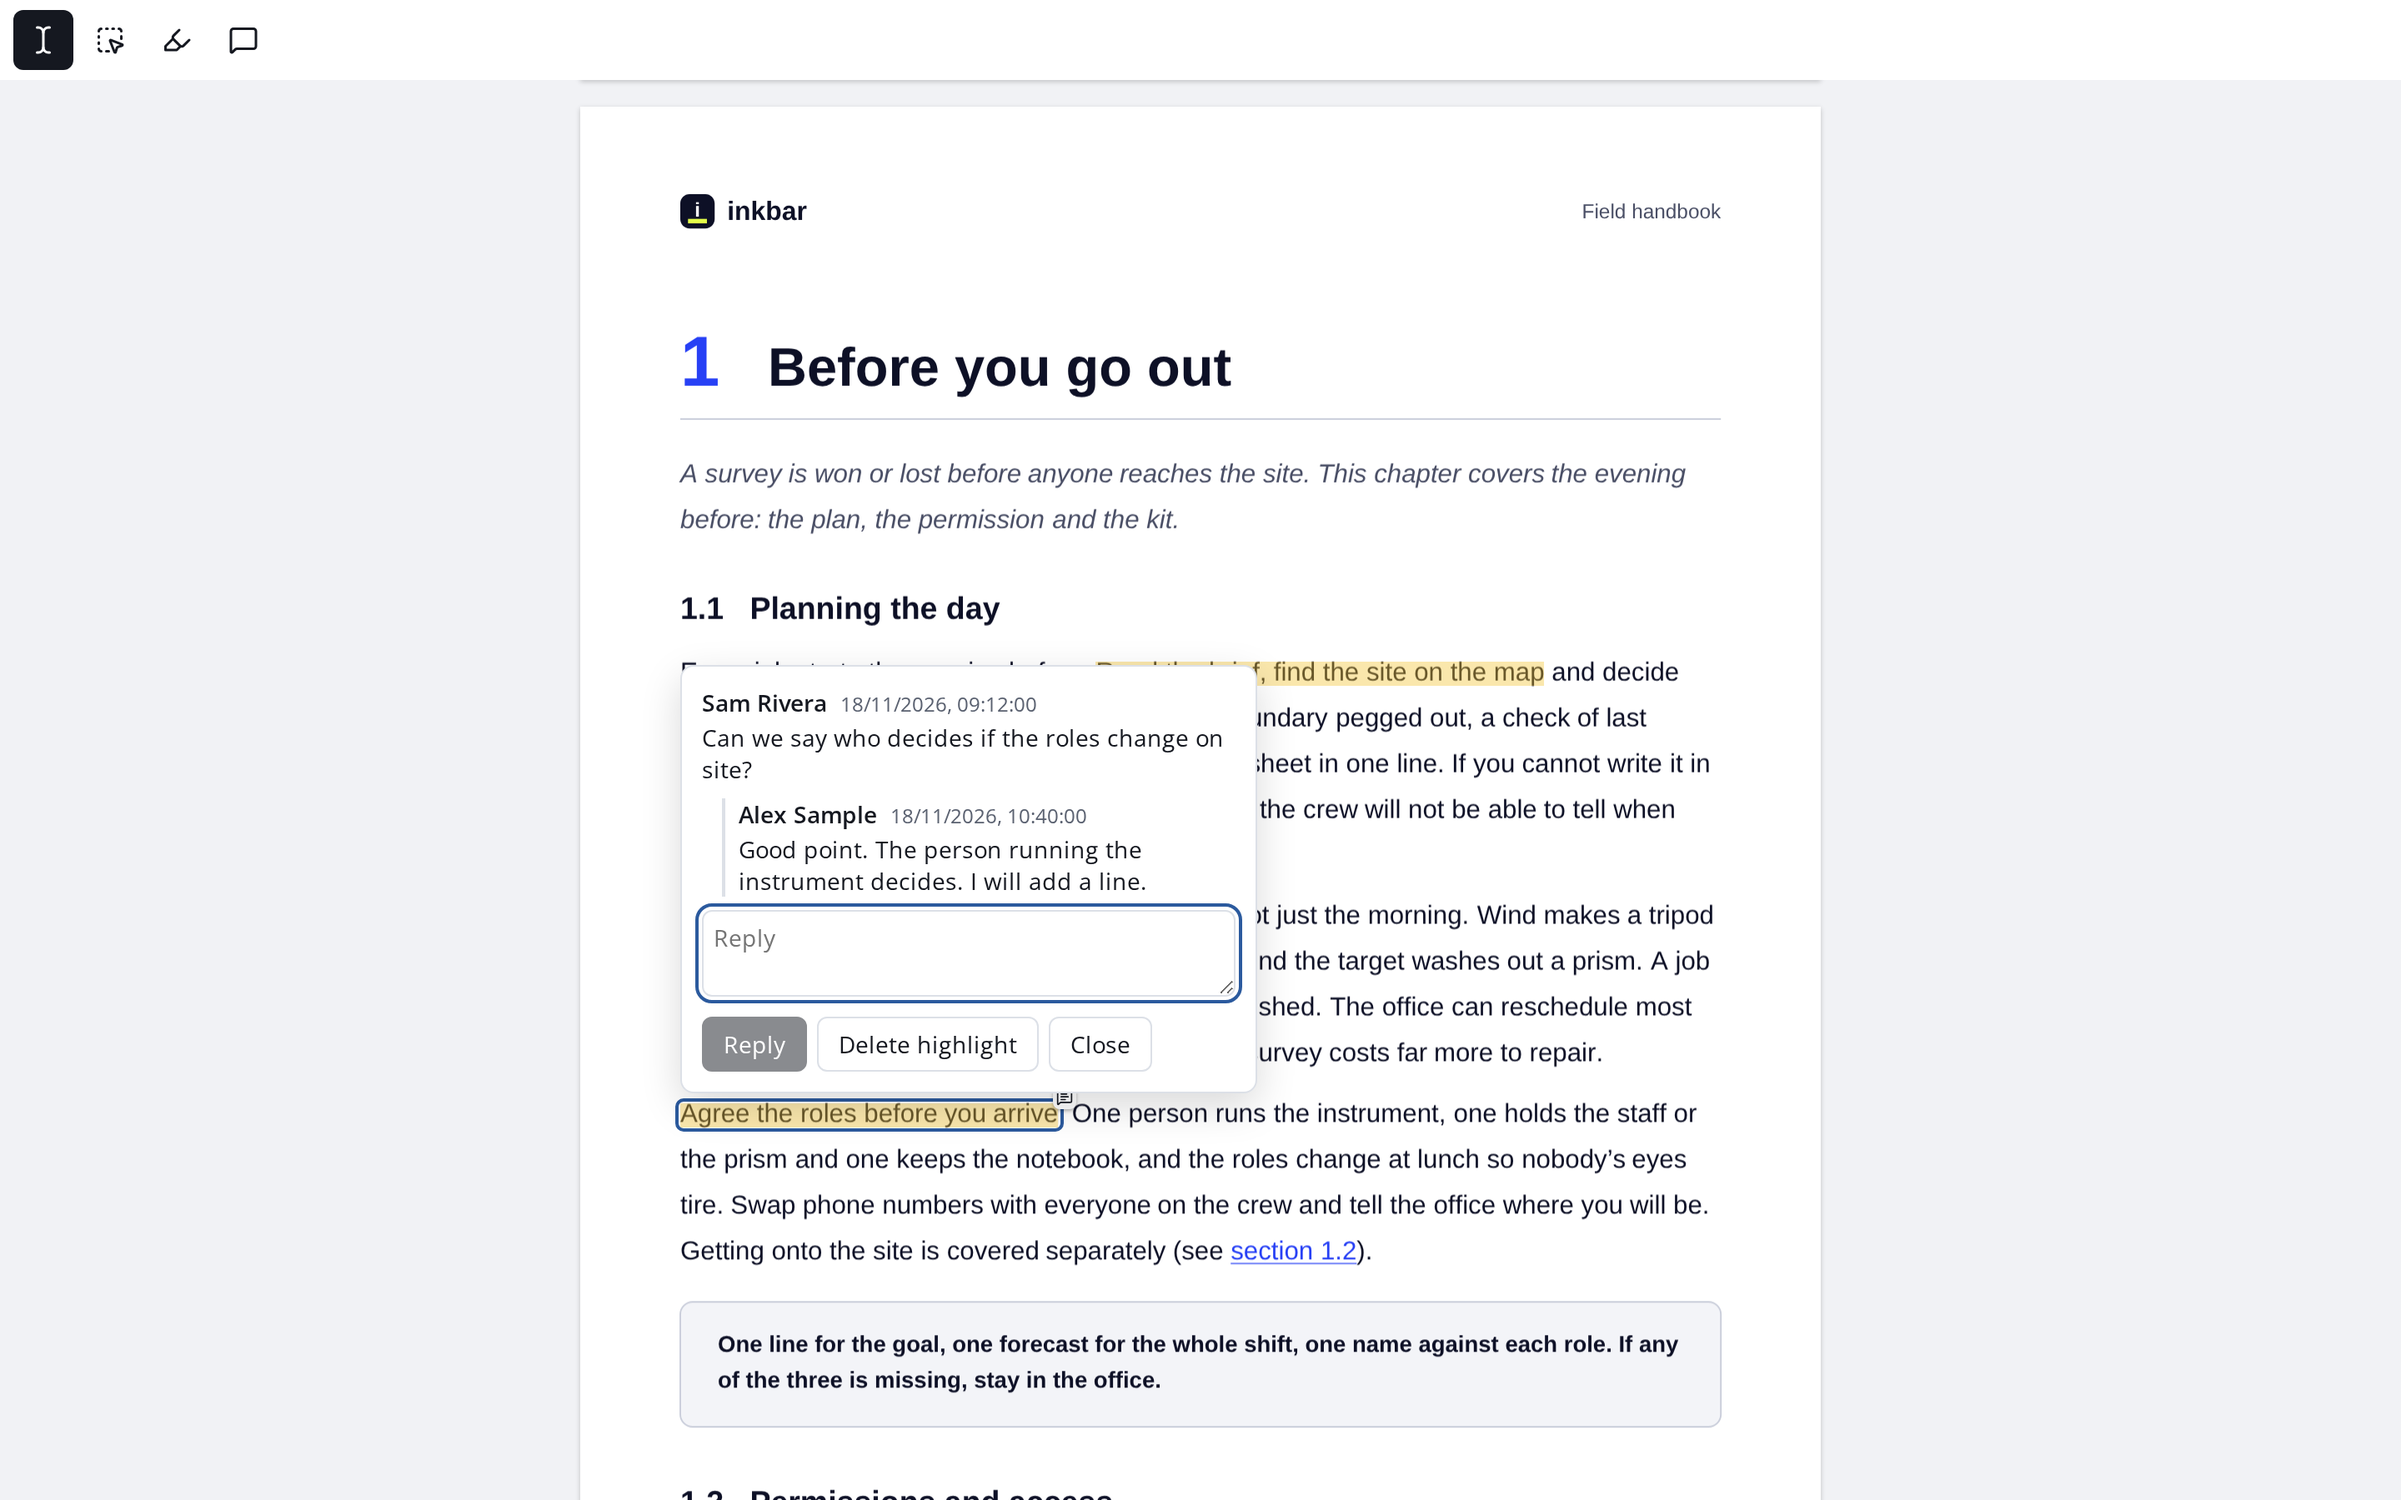
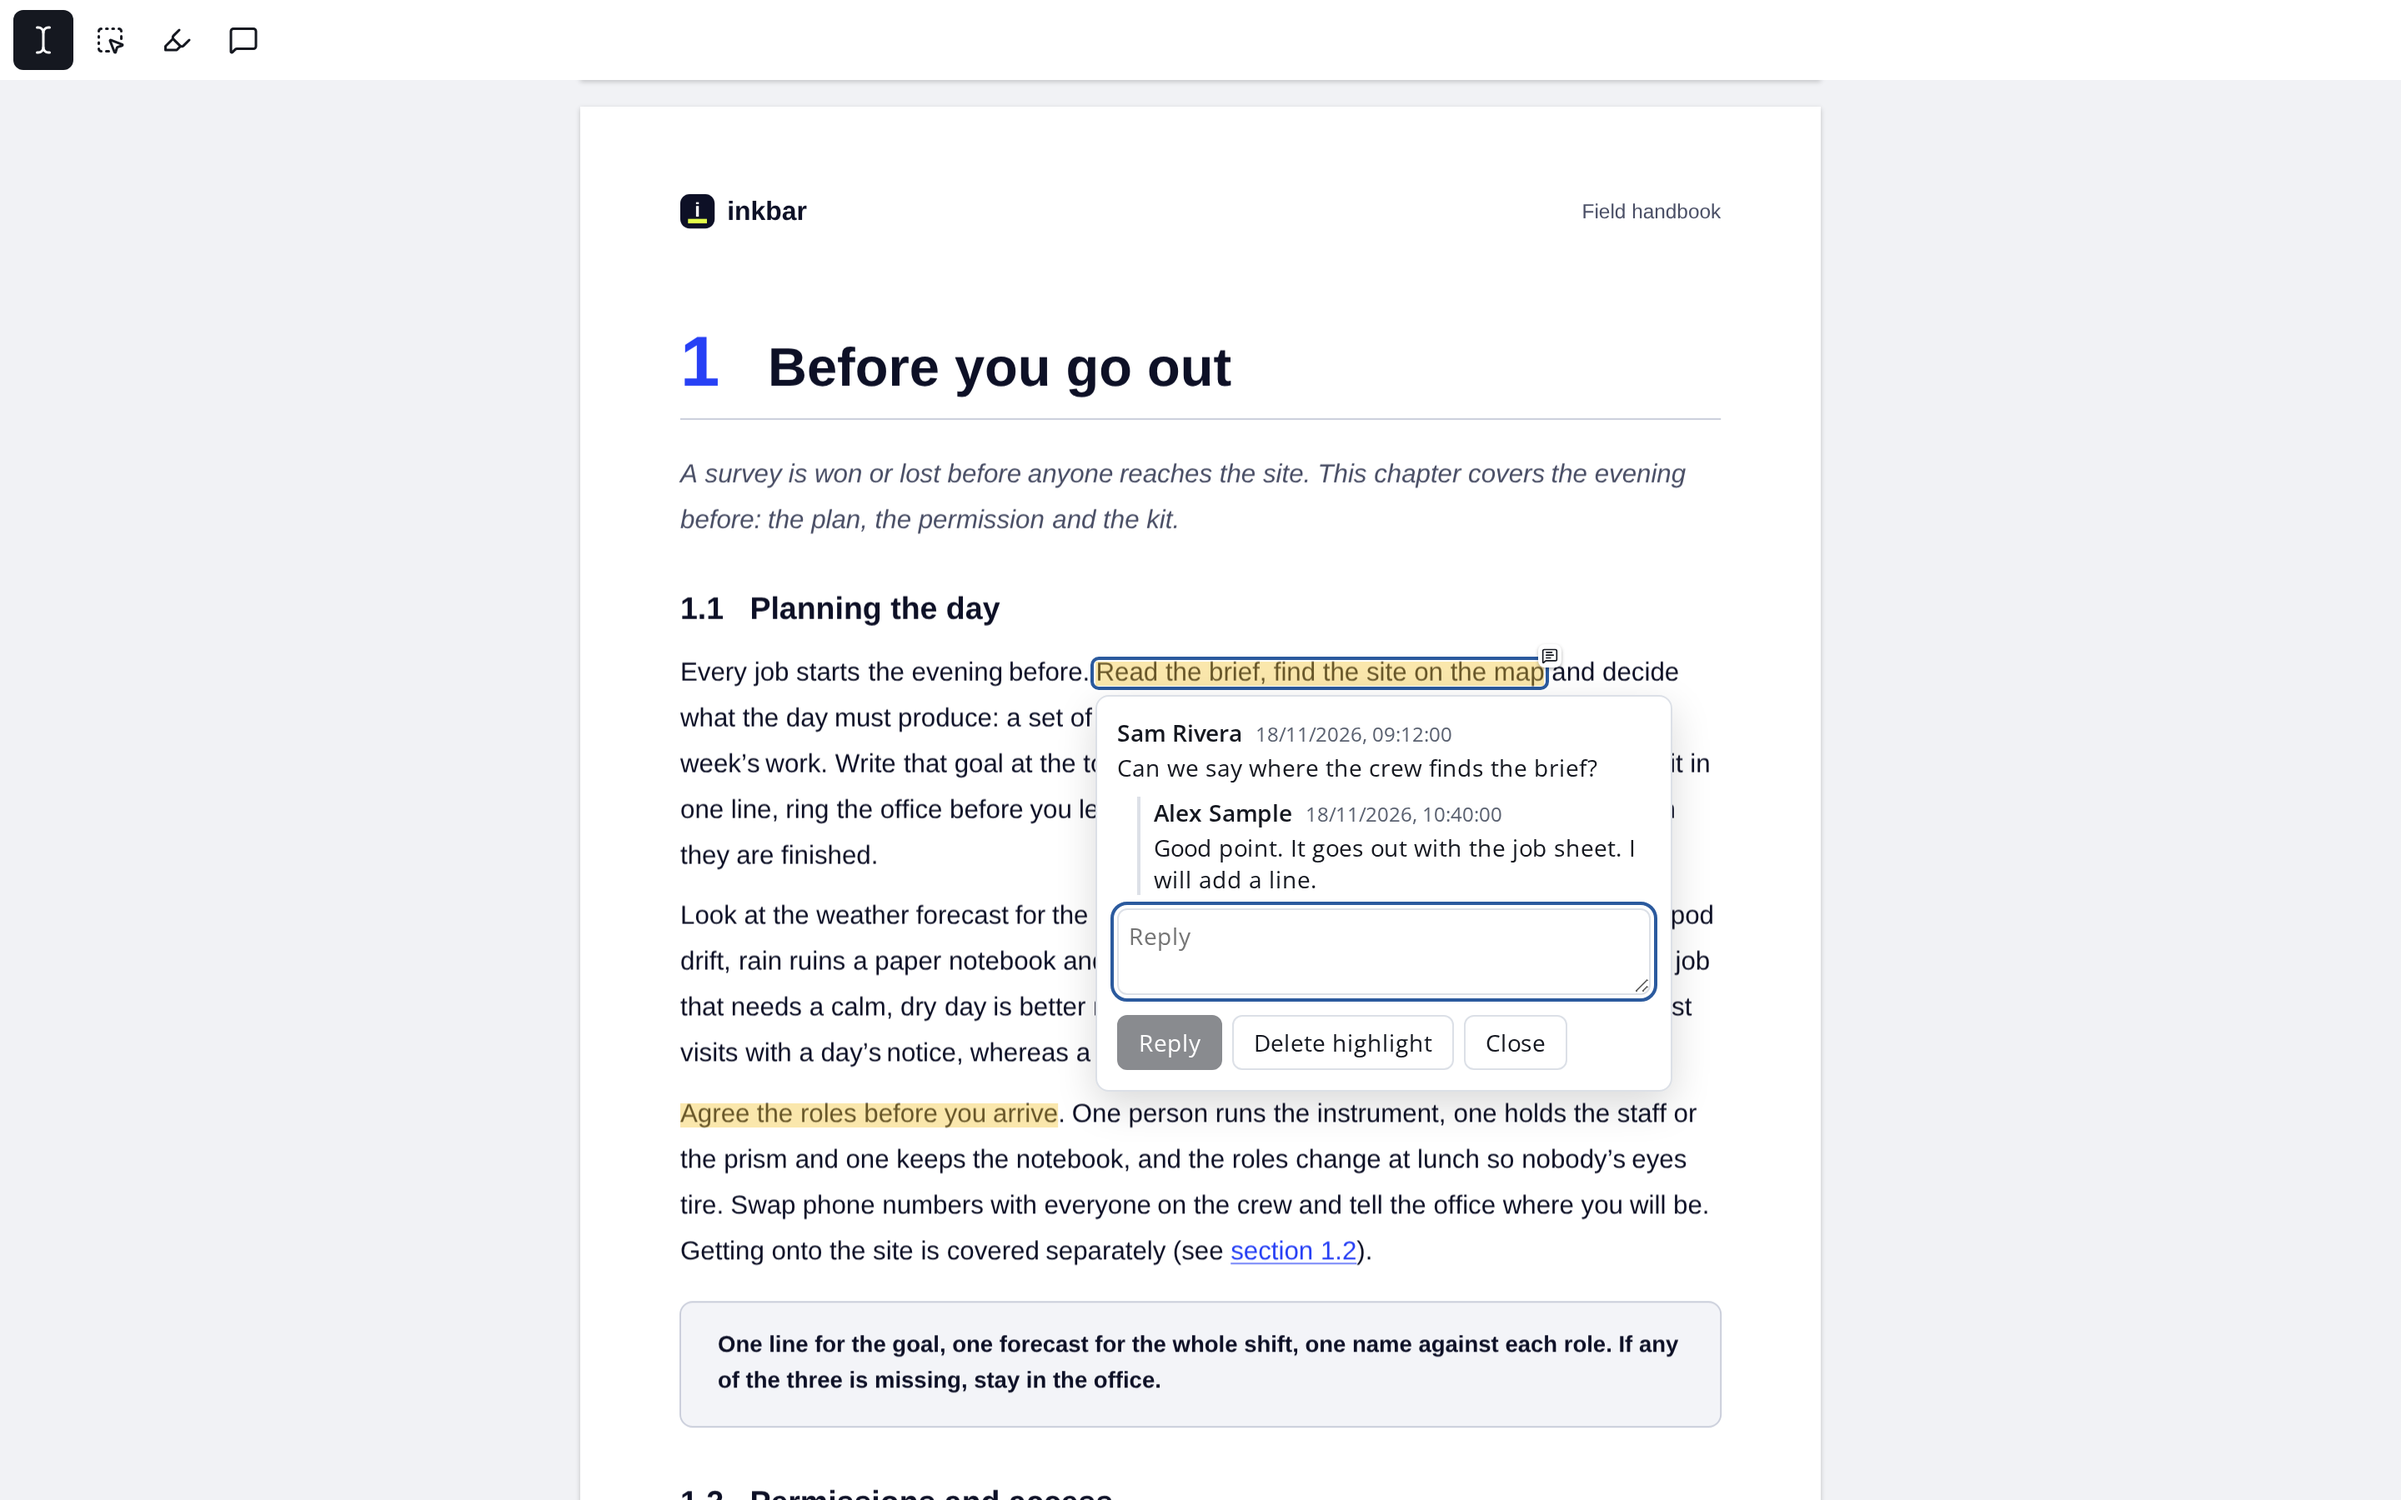
fix: tidy the use-case screenshots, titles and redaction limits (#78)

Changed region(s): [[0.2812, 0.4356, 0.6875, 0.7467]]

diff --git a/scripts/screenshots/setups.ts b/scripts/screenshots/setups.ts
@@ -44,21 +44,36 @@ export const setups: Record<Shot['slug'], (page: Page) => Promise<void>> = {
     await dialog.getByRole('button', { name: 'Save' }).click()
     await dialog.waitFor({ state: 'hidden' })
 
+    // Scroll the sign-off to the middle of the frame, then click halfway between it and the
+    // printed name, a name's width in from the left so the signature sits over the name.
     const viewer = page.locator('#viewer')
-    await page.mouse.move(720, 500)
-    await page.mouse.wheel(0, 420)
+    const frame = page.viewportSize()!
+    const before = await viewer.getByText('Yours sincerely,').boundingBox()
+    if (!before) throw new Error('The letter has no sign-off')
+    await page.mouse.move(frame.width / 2, frame.height / 2)
+    await page.mouse.wheel(0, before.y - frame.height / 2)
     await page.waitForTimeout(400)
     const signOff = await viewer.getByText('Yours sincerely,').boundingBox()
     const name = await viewer.getByText('Priya Shah').boundingBox()
     if (!signOff || !name) throw new Error('The letter has no sign-off')
     const sign = page.getByRole('button', { name: 'Sign', exact: true })
     if ((await sign.getAttribute('aria-pressed')) !== 'true') await sign.click()
-    await page.mouse.click(name.x + 90, (signOff.y + signOff.height + name.y) / 2)
-    await page.locator('#viewer .ink-annotation').first().waitFor()
+    await page.mouse.click(name.x + name.width, (signOff.y + signOff.height + name.y) / 2)
+    // The signature lands centred on the click. Drag it so its left edge lines up with the
+    // printed name, as a person would straighten it.
+    const placed = page.locator('#viewer .ink-annotation').first()
+    const box = await placed.boundingBox()
+    if (!box) throw new Error('The signature was not placed')
+    const centre = { x: box.x + box.width / 2, y: box.y + box.height / 2 }
+    await page.mouse.move(centre.x, centre.y)
+    await page.mouse.down()
+    await page.mouse.move(centre.x + name.x - box.x, centre.y, { steps: 8 })
+    await page.mouse.up()
   },
   'review-pdfs': async (page) => {
-    // Two highlights from search hits, one carrying a comment and then a reply from someone
-    // else, as a host would load them from its own store. The clock is set before each, so the
+    // Two highlights from search hits, the first carrying a comment and then a reply from
+    // someone else, as a host would load them from its own store. The thread opens by the
+    // first, clear of the second. The clock is set before each, so the
     // thread shows the same times on every run. Then open that thread as a reviewer would.
     await page.clock.setFixedTime(new Date('2026-11-18T09:12:00Z'))
     const commented = await page.evaluate(async () => {
@@ -67,15 +82,15 @@ export const setups: Record<Shot['slug'], (page: Page) => Promise<void>> = {
       const [second] = await doc.search('Agree the roles before you arrive').all()
       if (!first || !second) throw new Error('The handbook text moved')
       window.viewer.viewport.get()?.scrollToPage(first.page)
-      doc.annotations.add({ type: 'highlight', page: first.page, quads: first.quads })
+      doc.annotations.add({ type: 'highlight', page: second.page, quads: second.quads })
       const comment = doc.annotations.add({
         type: 'highlight',
-        page: second.page,
-        quads: second.quads,
+        page: first.page,
+        quads: first.quads,
         author: 'Sam Rivera',
-        contents: 'Can we say who decides if the roles change on site?',
+        contents: 'Can we say where the crew finds the brief?',
       })
-      return { id: comment.id, page: second.page, rect: second.rect }
+      return { id: comment.id, page: first.page, rect: first.rect }
     })
     await page.clock.setFixedTime(new Date('2026-11-18T10:40:00Z'))
     await page.evaluate((comment) => {
@@ -85,15 +100,14 @@ export const setups: Record<Shot['slug'], (page: Page) => Promise<void>> = {
         rect: comment.rect,
         inReplyTo: comment.id,
         author: 'Alex Sample',
-        contents:
-          'Good point. The person running the instrument decides. I will add a line.',
+        contents: 'Good point. It goes out with the job sheet. I will add a line.',
       })
     }, commented)
     await page.waitForTimeout(400)
     await page
       .getByRole('button', { name: 'Highlight with comment by Sam Rivera' })
       .click()
-    await page.getByText('The person running the instrument decides.').waitFor()
+    await page.getByText('It goes out with the job sheet.').waitFor()
   },
 }
 

diff --git a/scripts/screenshots/capture.ts b/scripts/screenshots/capture.ts
@@ -1,7 +1,6 @@
 // The page each screenshot is taken of: a viewer from the released packages, with only the
 // tools its shot needs, on that shot's sample document. run.ts drives it from here.
 /// <reference types="@inkbar/core/vite/client" />
-import { placeSignature } from '@inkbar/core'
 import {
   createApplyRedactionsButton,
   createSignatureMenu,
@@ -23,7 +22,6 @@ import { shots, type ToolName } from './shots.ts'
 declare global {
   interface Window {
     viewer: Viewer
-    placeSignature: typeof placeSignature
   }
 }
 
@@ -57,4 +55,3 @@ if (shot.tools.includes('redact-area')) bar.append(createApplyRedactionsButton(v
 viewer.element.prepend(bar)
 
 window.viewer = viewer
-window.placeSignature = placeSignature

diff --git a/src/content/use-cases/redact-pdfs.md b/src/content/use-cases/redact-pdfs.md
@@ -23,7 +23,7 @@ app:
   - Applying also strips the file's metadata, attached files, scripts and page thumbnails, and rewrites the whole file so no earlier version stays inside it.
 notes:
   - heading: The limits
-    text: Read these before you rely on a redacted file. Inkbar does not clean hidden layers. The removed words can still appear in bookmark titles, comments on other annotations, form values and alternate text. A scanned page has no text to remove, only the pixels under the mark. A signed file's signature stops verifying. The [Redaction guide](/docs/guides/redaction/#limits) lists every limit.
+    text: Read these before you rely on a redacted file. Inkbar does not clean hidden layers. The removed words can still appear in bookmark titles, comments on other annotations, form values and alternate text. A scanned page has no text to remove, only the pixels under the mark. A signed file's signature stops verifying. Inkbar removes what lies under each mark and does not look for copies of that content elsewhere in the file. The check after an apply has limits too, so don't describe a file as safe because the apply succeeded. The [Redaction guide](/docs/guides/redaction/#limits) lists every limit.
 example: |
   import {
     createApplyRedactionsButton,

diff --git a/README.md b/README.md
@@ -45,3 +45,16 @@ pnpm lint
 pnpm format:check
 pnpm typecheck
 ```
+
+## Use-case screenshots
+
+The screenshots on the use-case pages come from the released `@inkbar` packages, not from drawings. After you upgrade those packages, capture them again:
+
+```sh
+pnpm exec playwright install chromium
+pnpm screenshots
+```
+
+Pass one or more page slugs, such as `pnpm screenshots sign-pdfs`, to capture only those. The script writes `src/assets/use-cases/<slug>.png`. Look at each image before you commit it.
+
+The sample PDFs live in `scripts/screenshots/documents/`. `redactions.pdf`, `letter.pdf` and `handbook.pdf` are copies of the sandbox's made-up documents in [inkbar/inkbar](https://github.com/inkbar/inkbar) (`apps/sandbox/vite/documents/`). To make them again, run the sandbox's `makeDocument(name)` from `apps/sandbox` there and copy the bytes in.

diff --git a/src/content/use-cases/fill-pdf-forms.md b/src/content/use-cases/fill-pdf-forms.md
@@ -1,5 +1,5 @@
 ---
-title: Fill PDF forms in your web app | Inkbar
+title: Add PDF form filling to your web app | Inkbar
 description: Let people fill in PDF forms in the browser, with the form's own scripts running, and keep the values in your app or in the PDF. Open source and free.
 heading: Let people [fill in] PDF forms inside your app
 mark: field

diff --git a/src/content/use-cases/sign-pdfs.md b/src/content/use-cases/sign-pdfs.md
@@ -1,5 +1,5 @@
 ---
-title: Sign PDFs in your web app | Inkbar
+title: Add PDF signing to your web app | Inkbar
 description: Let people draw, type or upload a signature and place it on any page or in a signature field of a PDF, in the browser. Open source and free.
 heading: Let people [sign] PDFs in your app
 mark: signature
